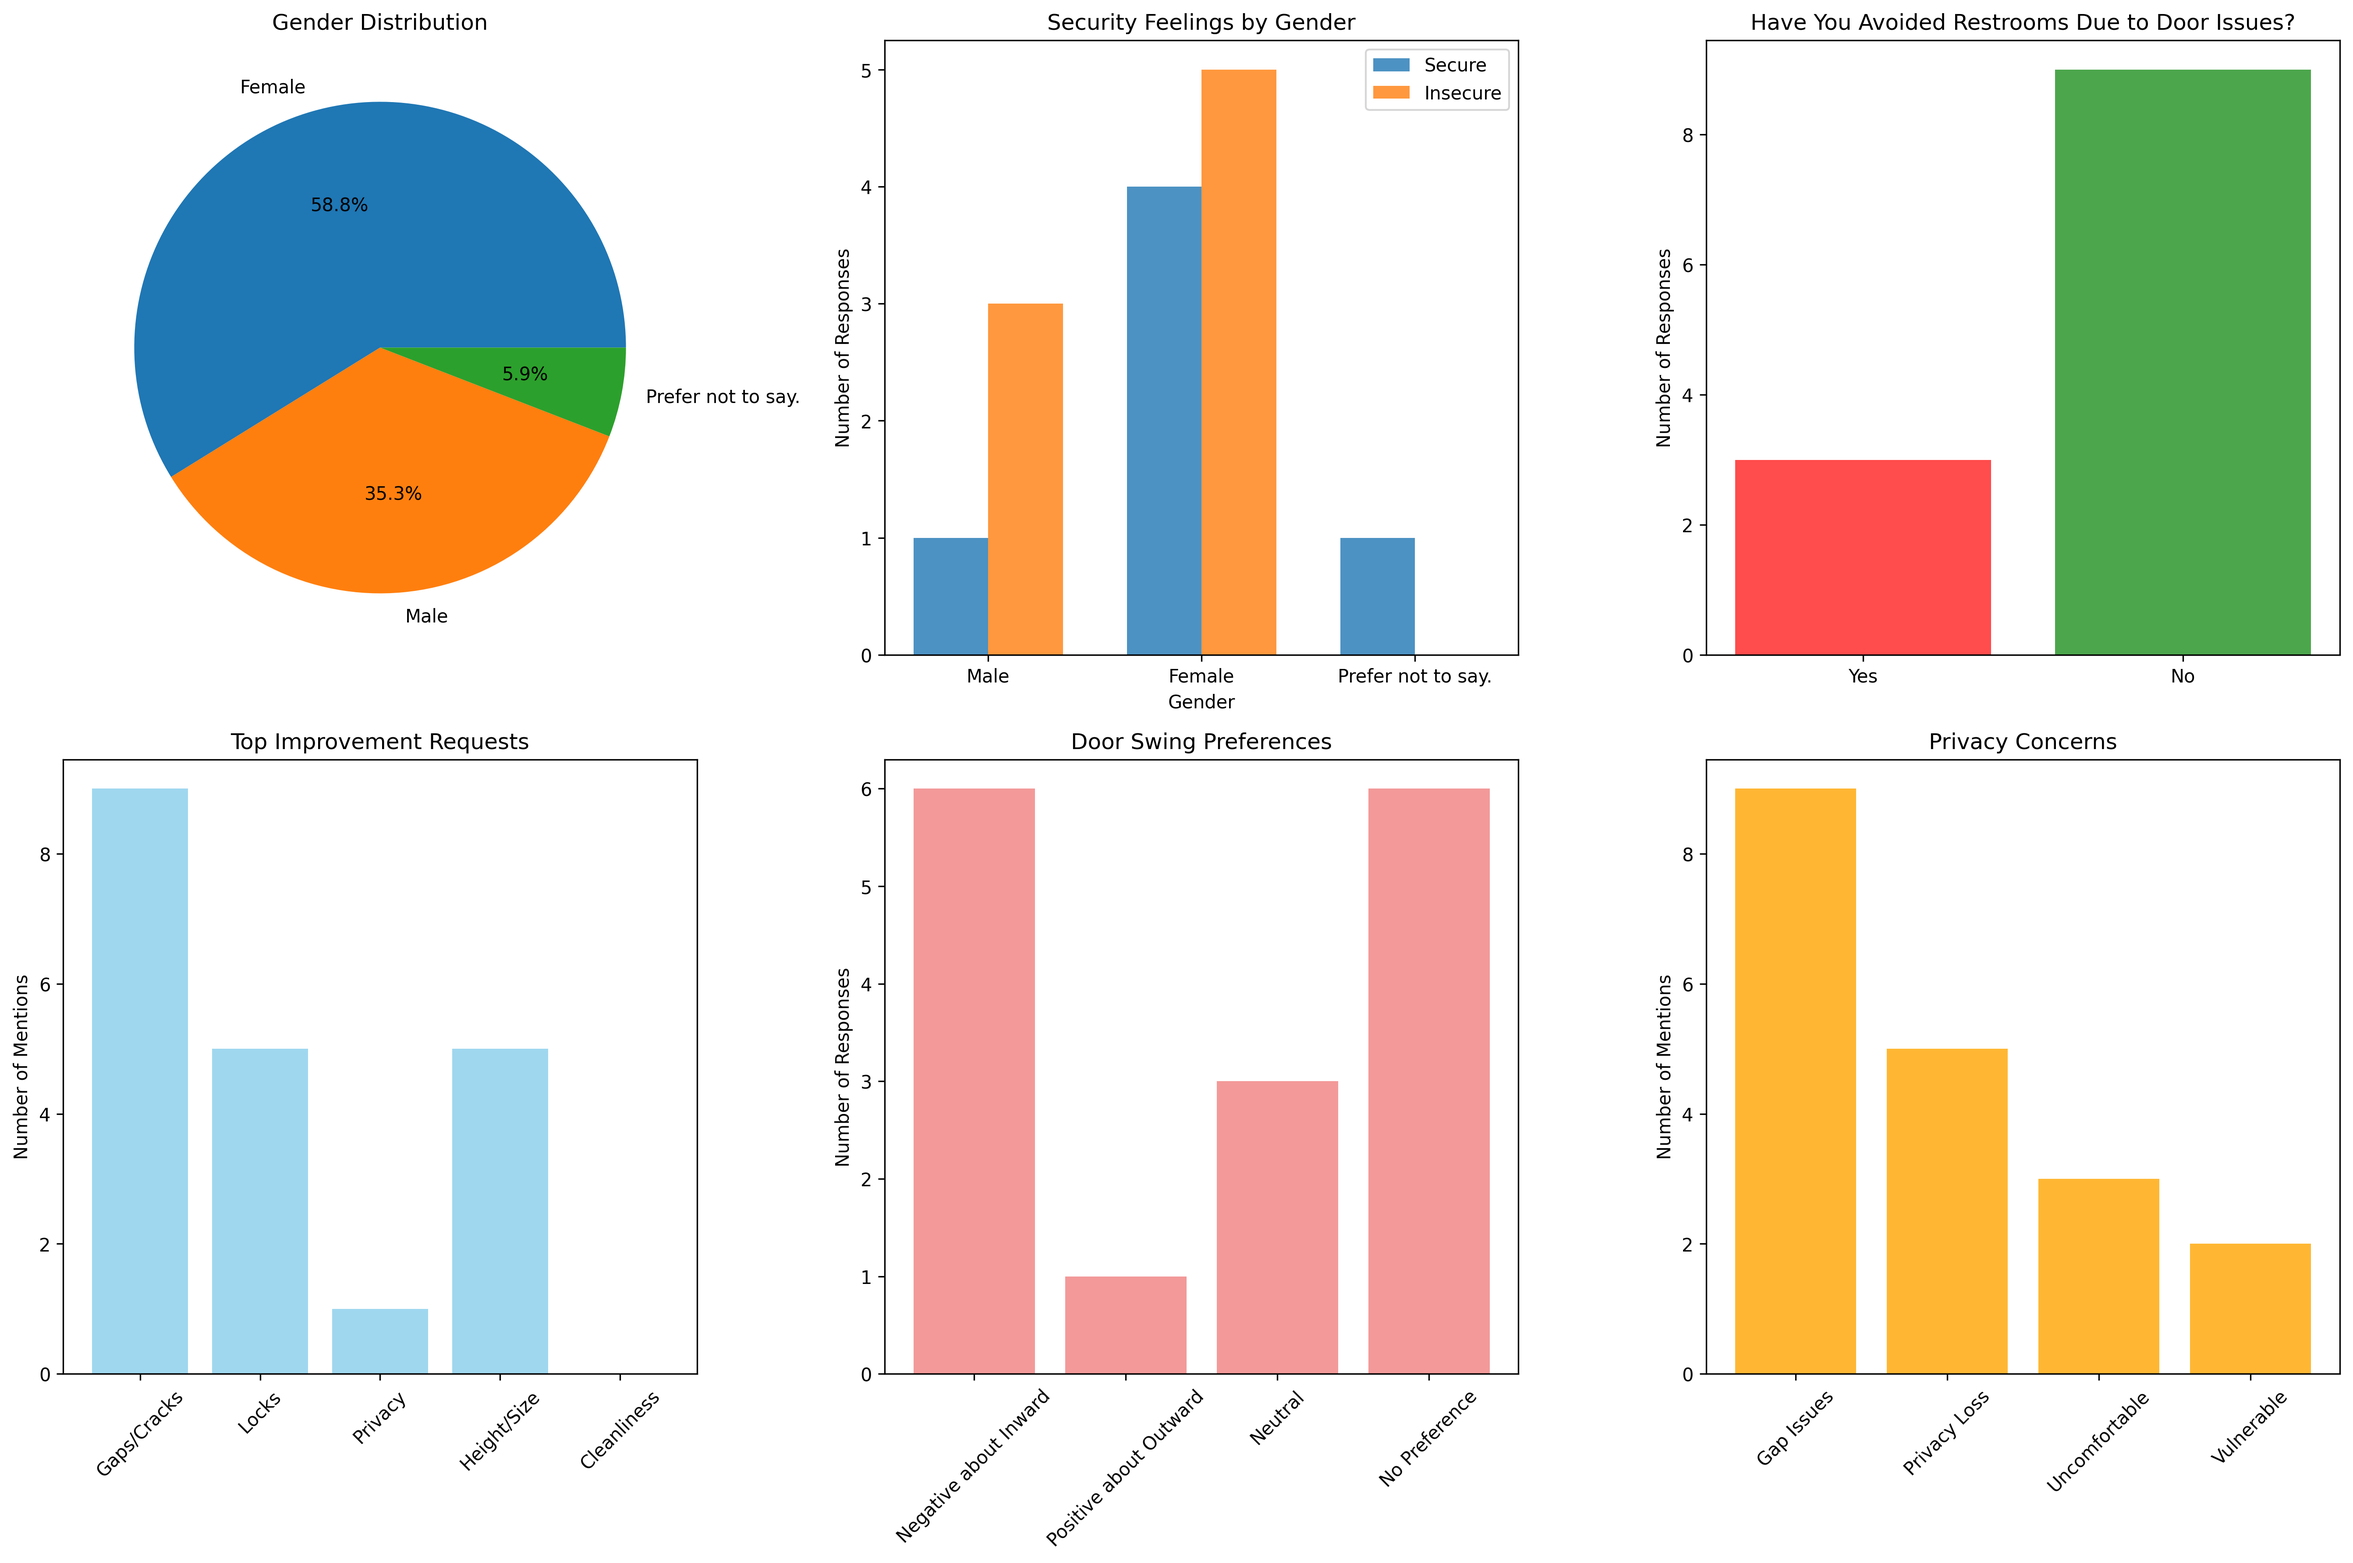
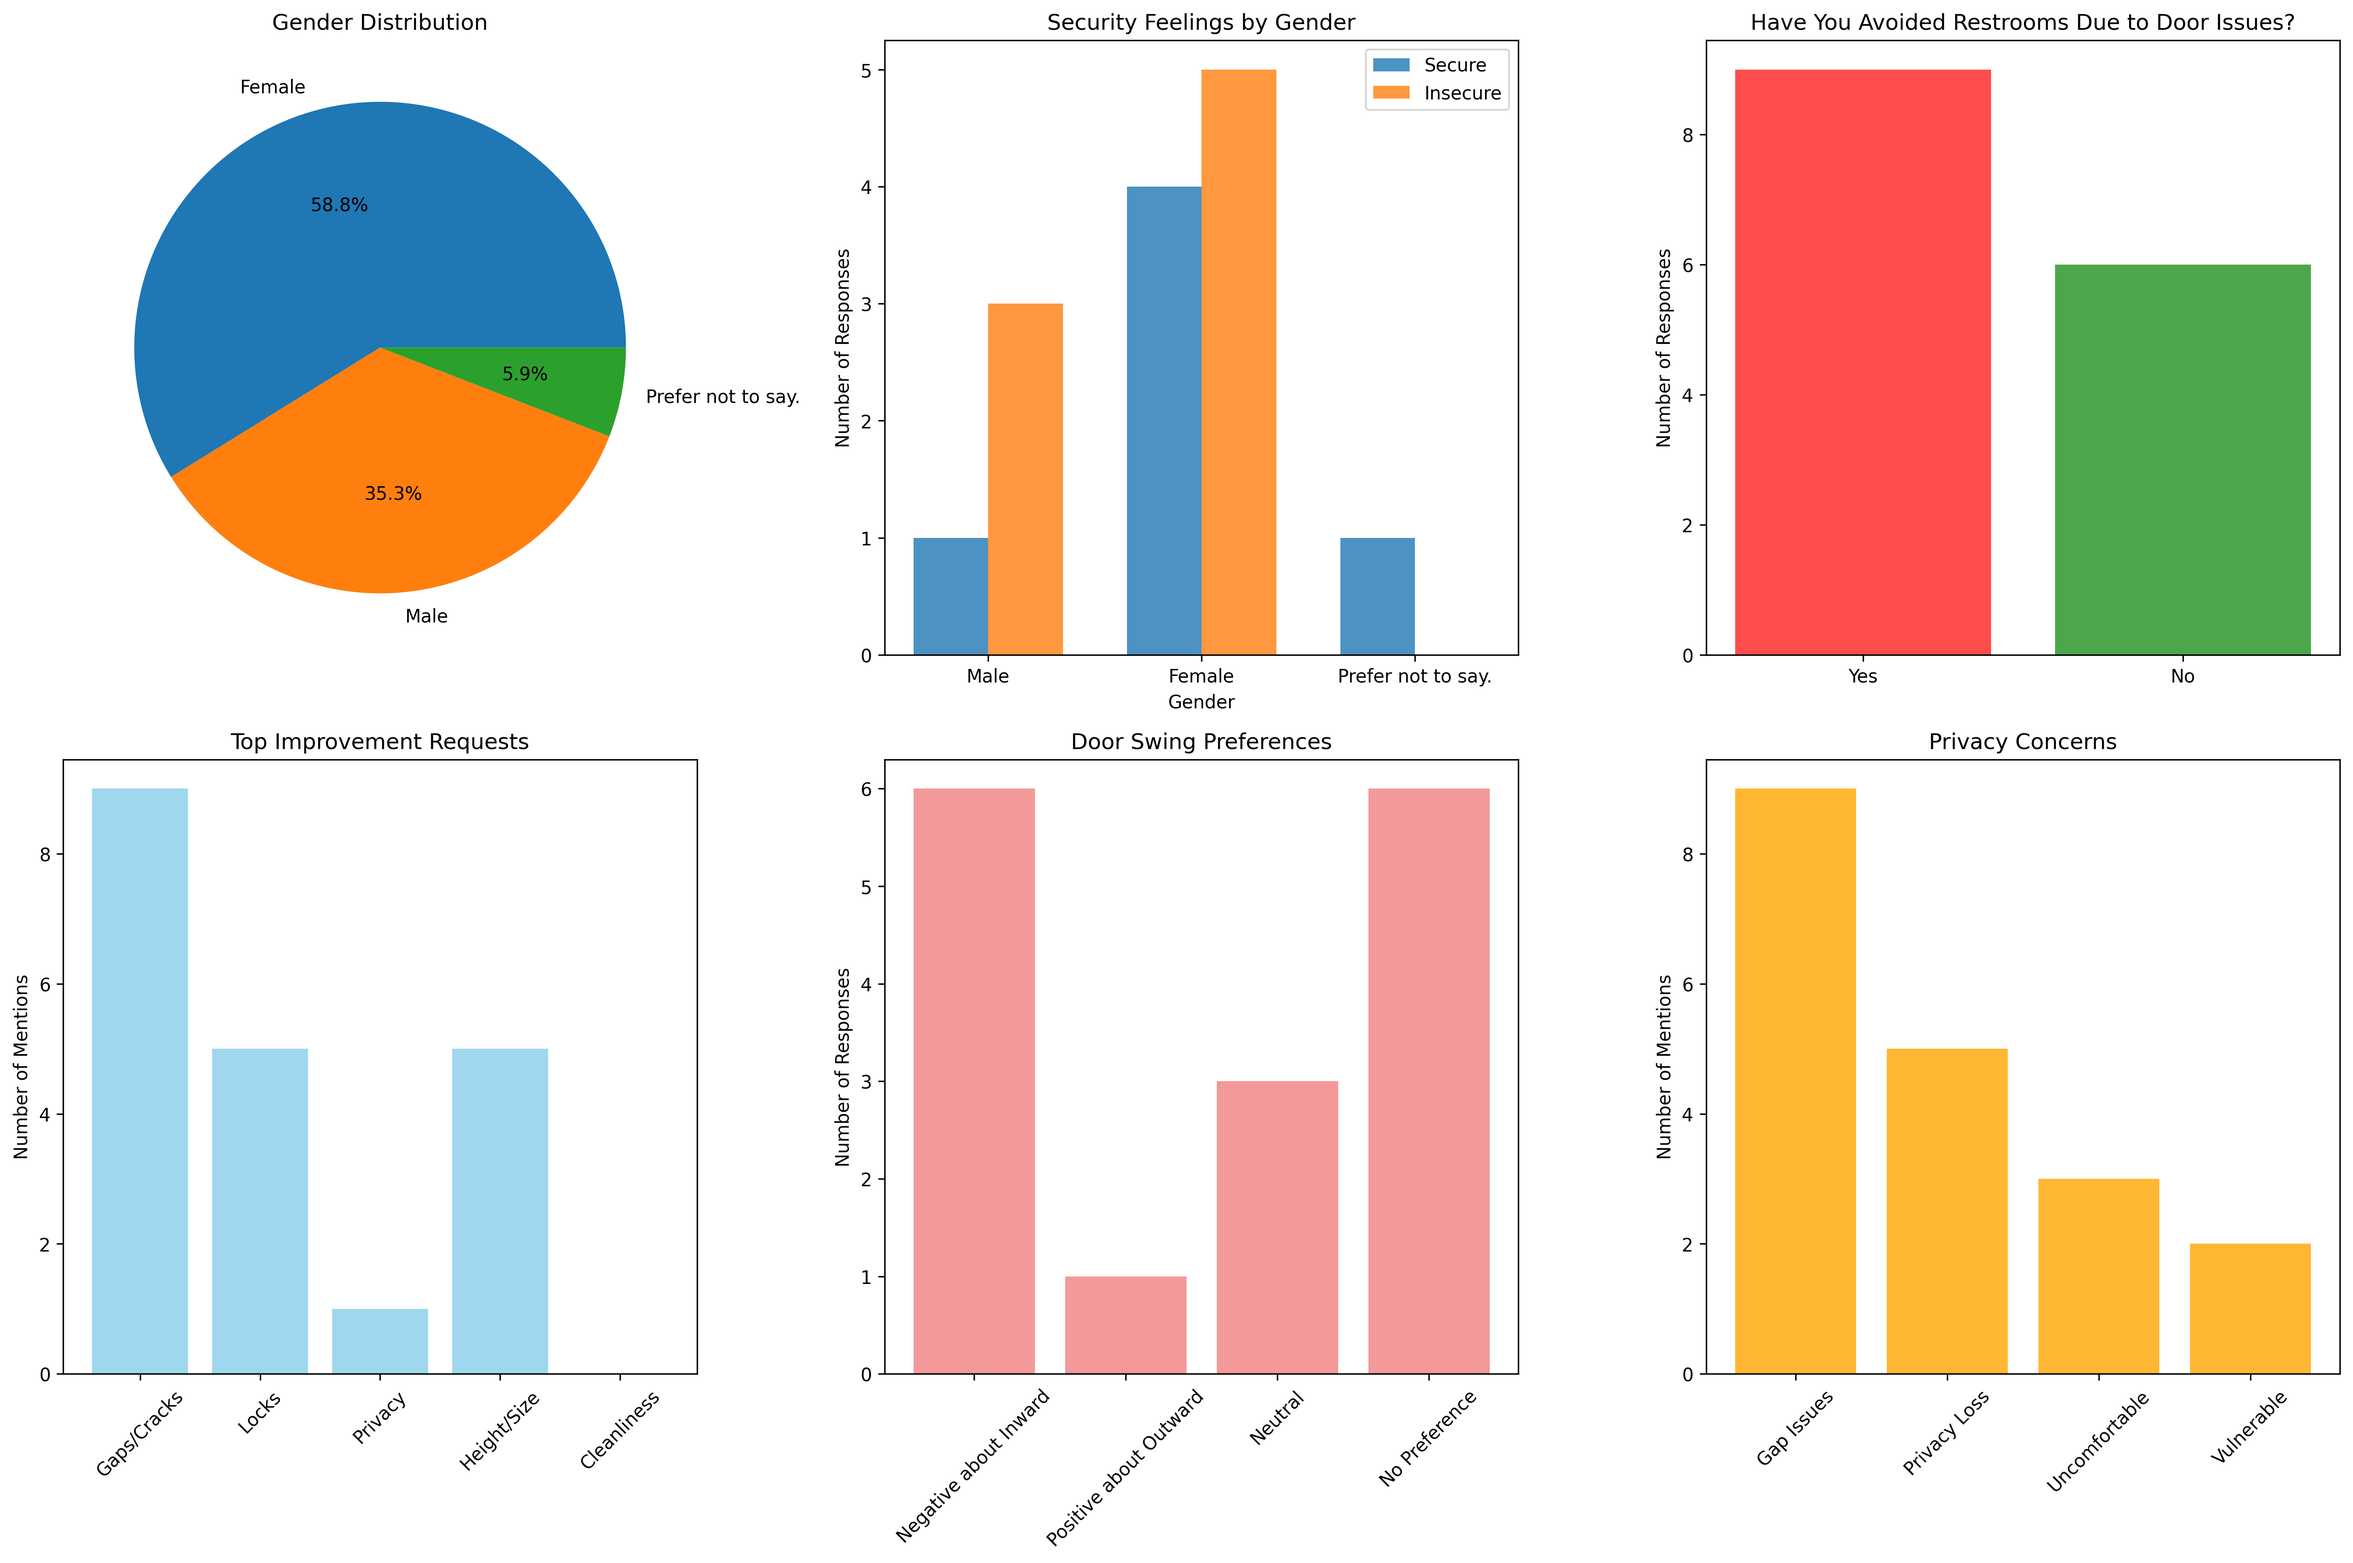
fixed graph issue with avoid

Changed region(s): [[0.7153, 0.0311, 0.9952, 0.3111]]

diff --git a/src/main.py b/src/main.py
@@ -428,12 +428,22 @@ def create_visualizations(df):
     
     # 3. Avoidance behavior
     avoidance_col = "Have you ever decided not to use a restroom because of the stall door? If so, why?"
+
     if avoidance_col in df.columns:
         avoidance_responses = df[avoidance_col].dropna().str.lower()
-        
-        yes_avoid = sum(1 for r in avoidance_responses if 'yes' in r)
-        no_avoid = sum(1 for r in avoidance_responses if 'no' in r)
-        
+
+        yes_keywords = ['yes', 'yea', 'yeah', 'because', 'only', "didn't use", "not close", "could not"]
+        no_keywords  = ['no', 'not really']
+
+        yes_avoid = 0
+        no_avoid  = 0
+
+        for r in avoidance_responses:
+            if any(keyword in r for keyword in yes_keywords):
+                yes_avoid += 1
+            elif any(keyword in r for keyword in no_keywords):
+                no_avoid += 1
+
         axes[0, 2].bar(['Yes', 'No'], [yes_avoid, no_avoid], color=['red', 'green'], alpha=0.7)
         axes[0, 2].set_title('Have You Avoided Restrooms Due to Door Issues?')
         axes[0, 2].set_ylabel('Number of Responses')
